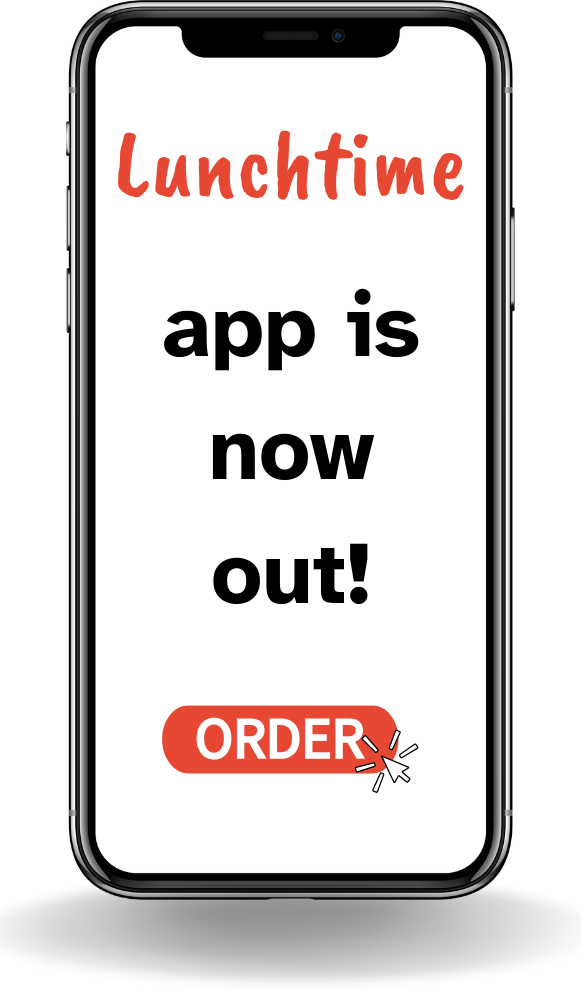
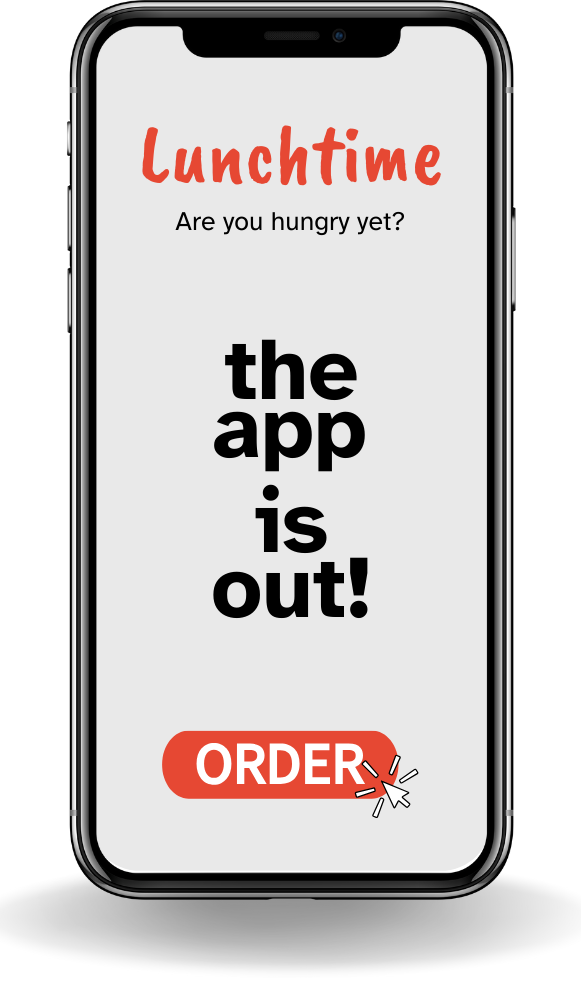
edit hero and change the mobileapp.png

diff --git a/src/app/components/landing/Hero.tsx b/src/app/components/landing/Hero.tsx
@@ -12,7 +12,7 @@ const Hero = () => {
                 </Col>
                 <Col md={3} className="d-flex flex-column justify-content-center">
                     <Row className="justify-content-center">
-                        <span id={"mobile-title"}>Are you hungry yet?</span>
+                        <span id={"mobile-title"}>Lunch time already?</span>
                     </Row>
                     <Row className="justify-content-center mt-5">
                         <span id={"mobile-text"}>Start now and create your company lunch order in a whole new way!</span>

diff --git a/src/app/page.tsx b/src/app/page.tsx
@@ -1,6 +1,5 @@
 import 'bootstrap/dist/css/bootstrap.min.css';
 import './globals.css'
-import Navigation from "@/app/components/Navigation";
 import Hero from "@/app/components/landing/Hero";
 
 export default function Home() {
